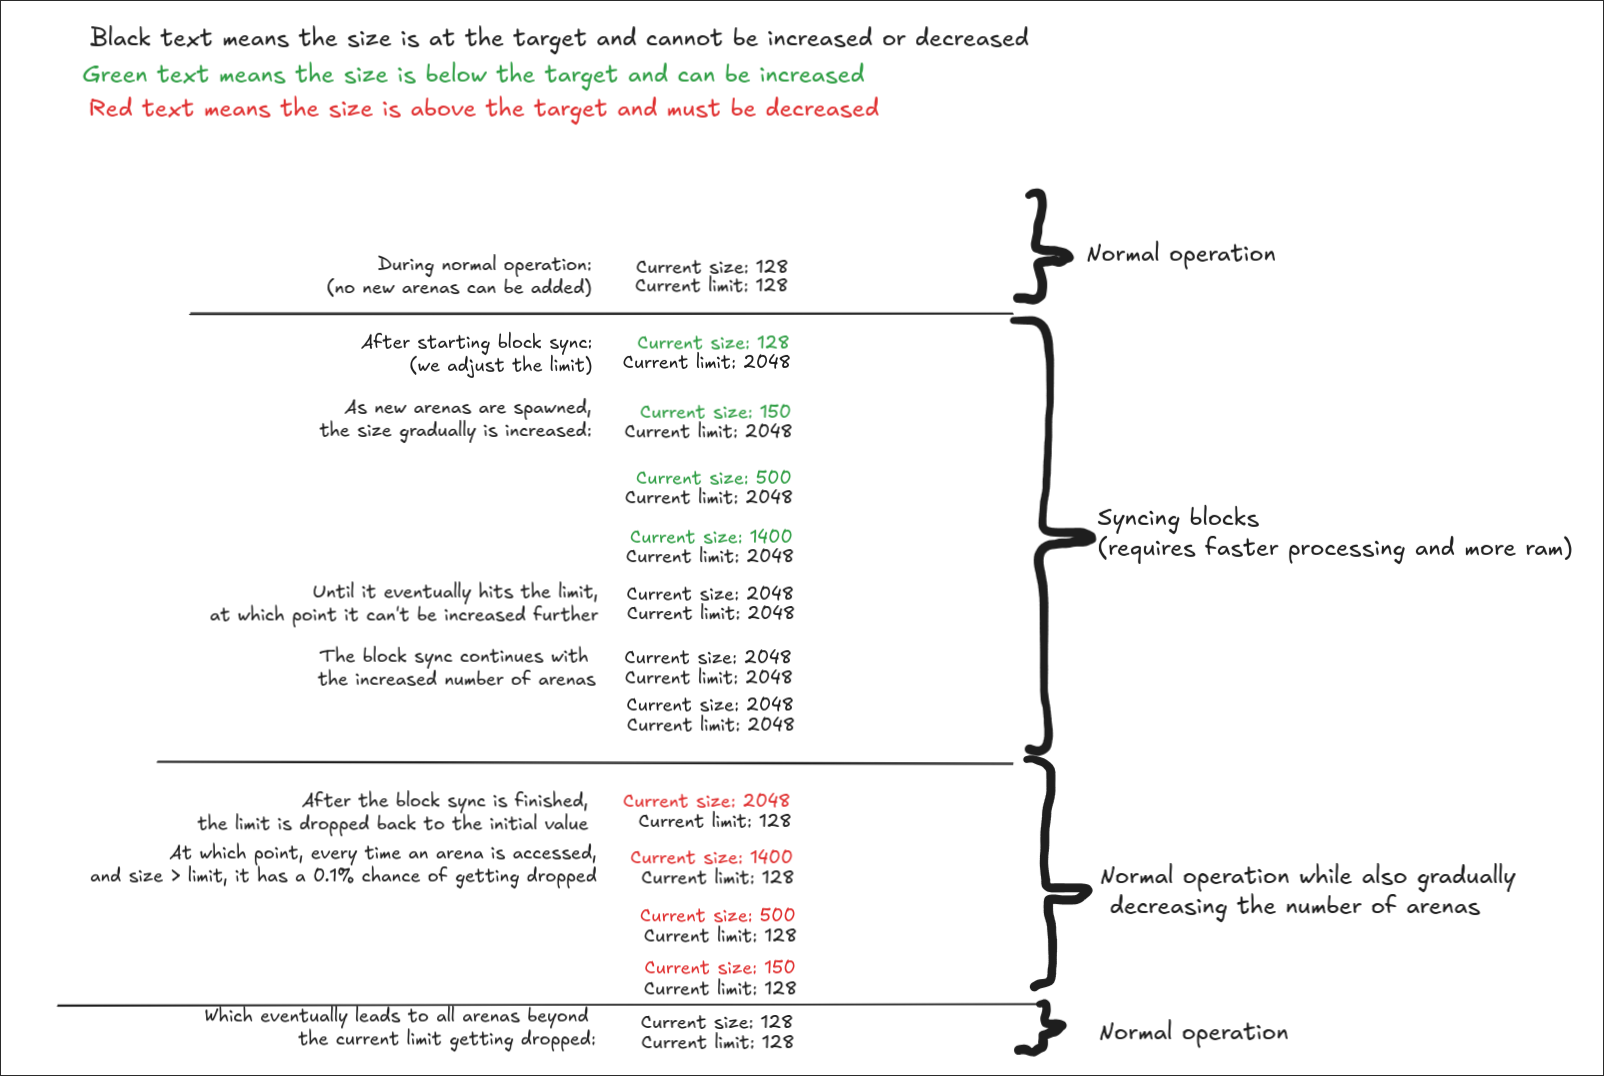
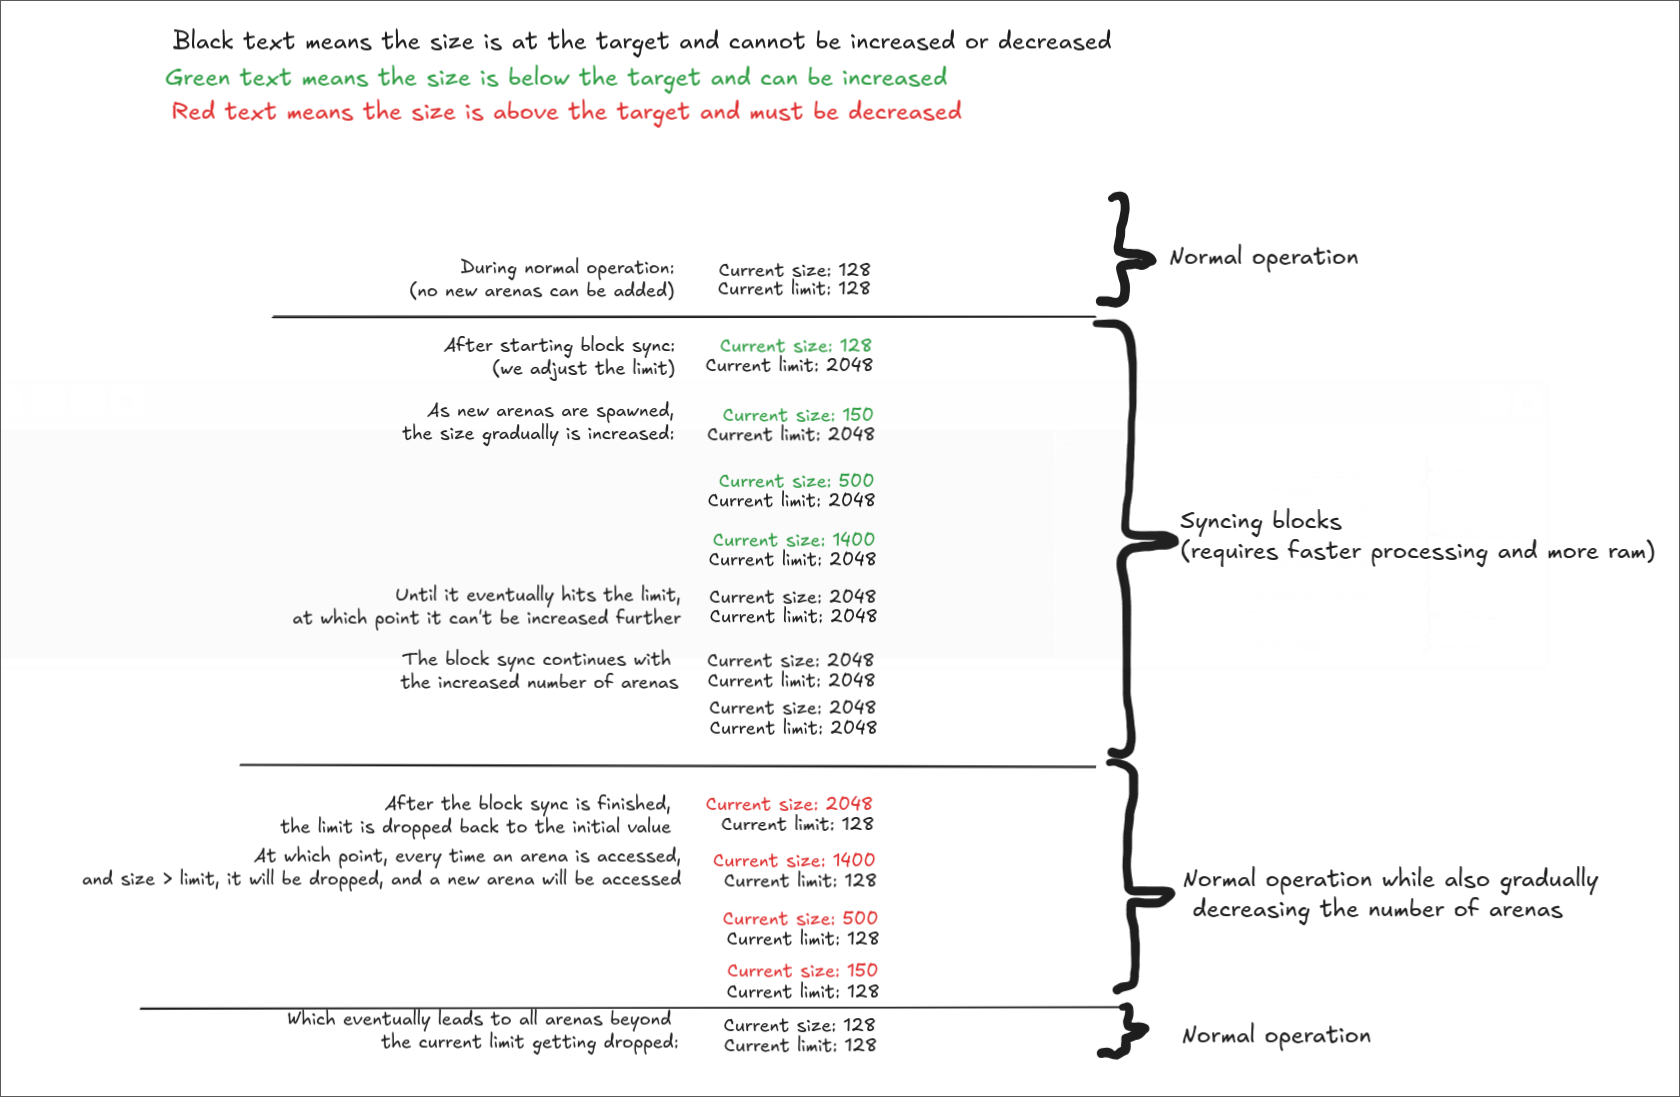
chore: dont use rng when removing arenas

Changed region(s): [[0.0312, 0.0, 1.0, 1.0], [0.0312, 0.0307, 0.6546, 0.1227]]

diff --git a/src/packets/packet.rs b/src/packets/packet.rs
@@ -84,8 +84,7 @@ pub async fn read_packet(stream: &mut BufReader<OwnedReadHalf>) -> Result<Packet
                     allocator = Some(p);
                     break;
                 }
-                let rng_permit = rand::rng().random::<f64>() < 0.001; // 0.1% chance to drop this arena if we are currently over the limit
-                while rng_permit && current_size < limit {
+                while current_size < limit {
                     match CURRENT_POOL_SIZE.compare_exchange_weak(
                         current_size,
                         current_size - 1,
